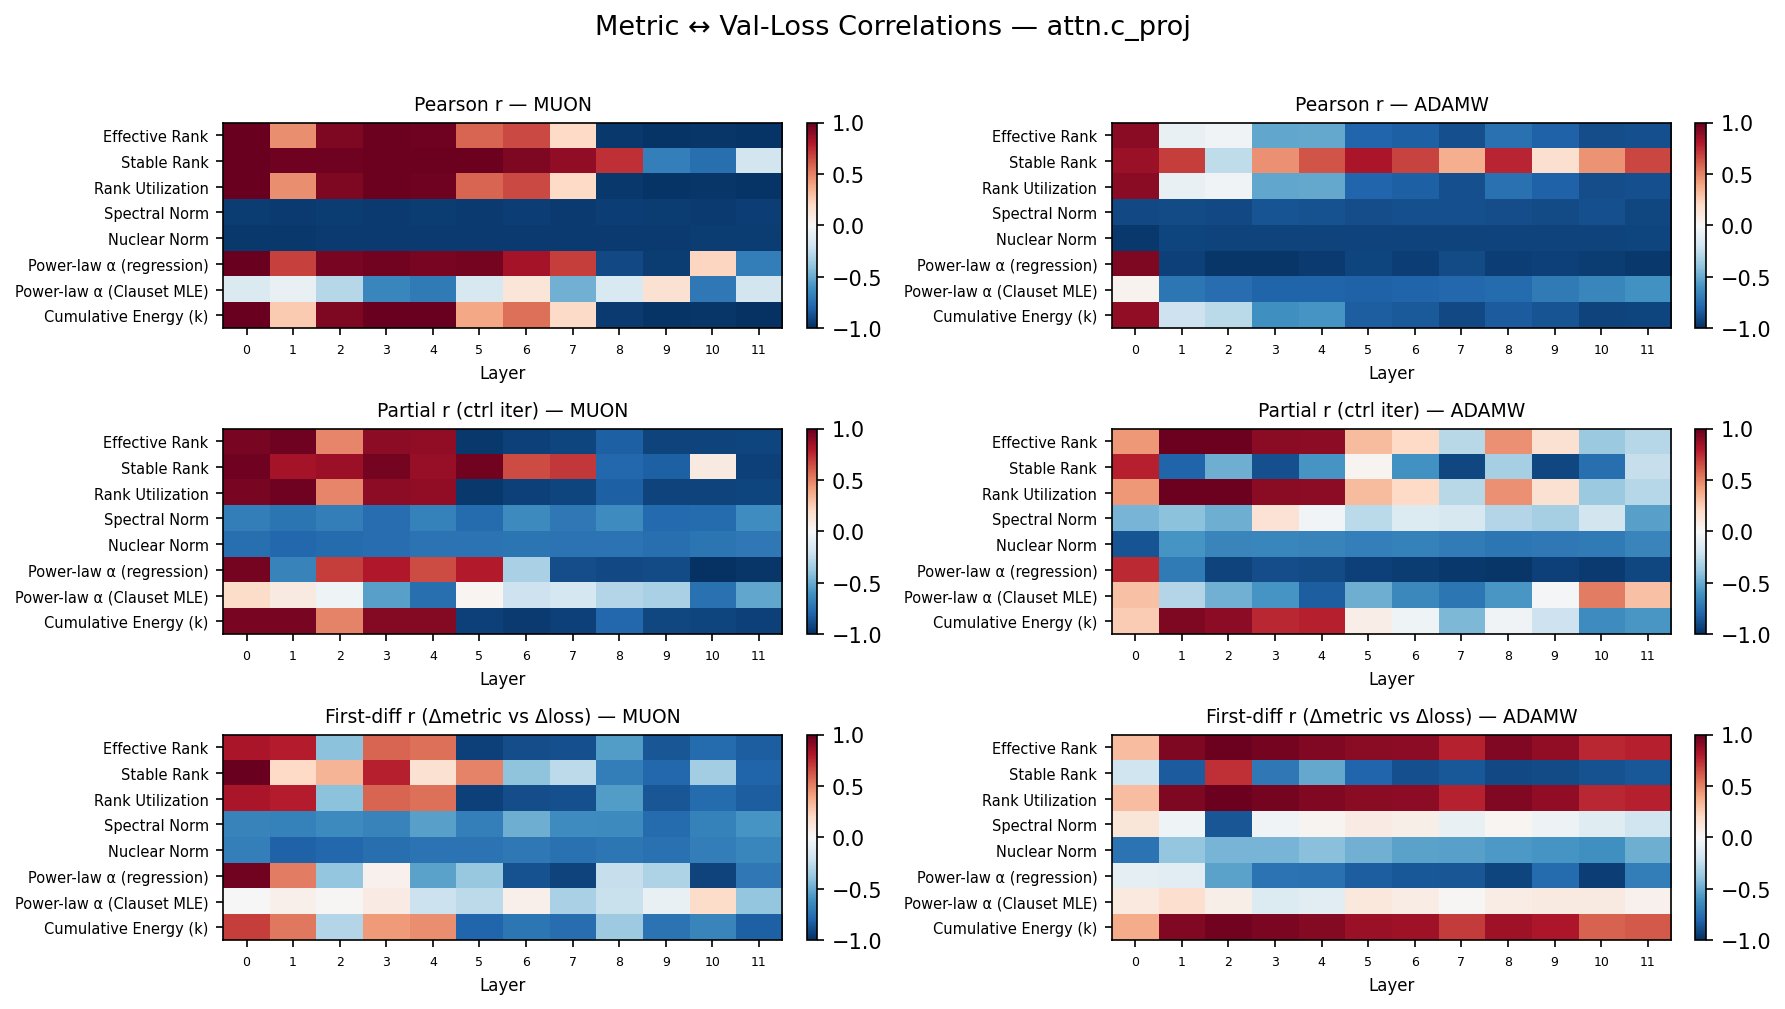
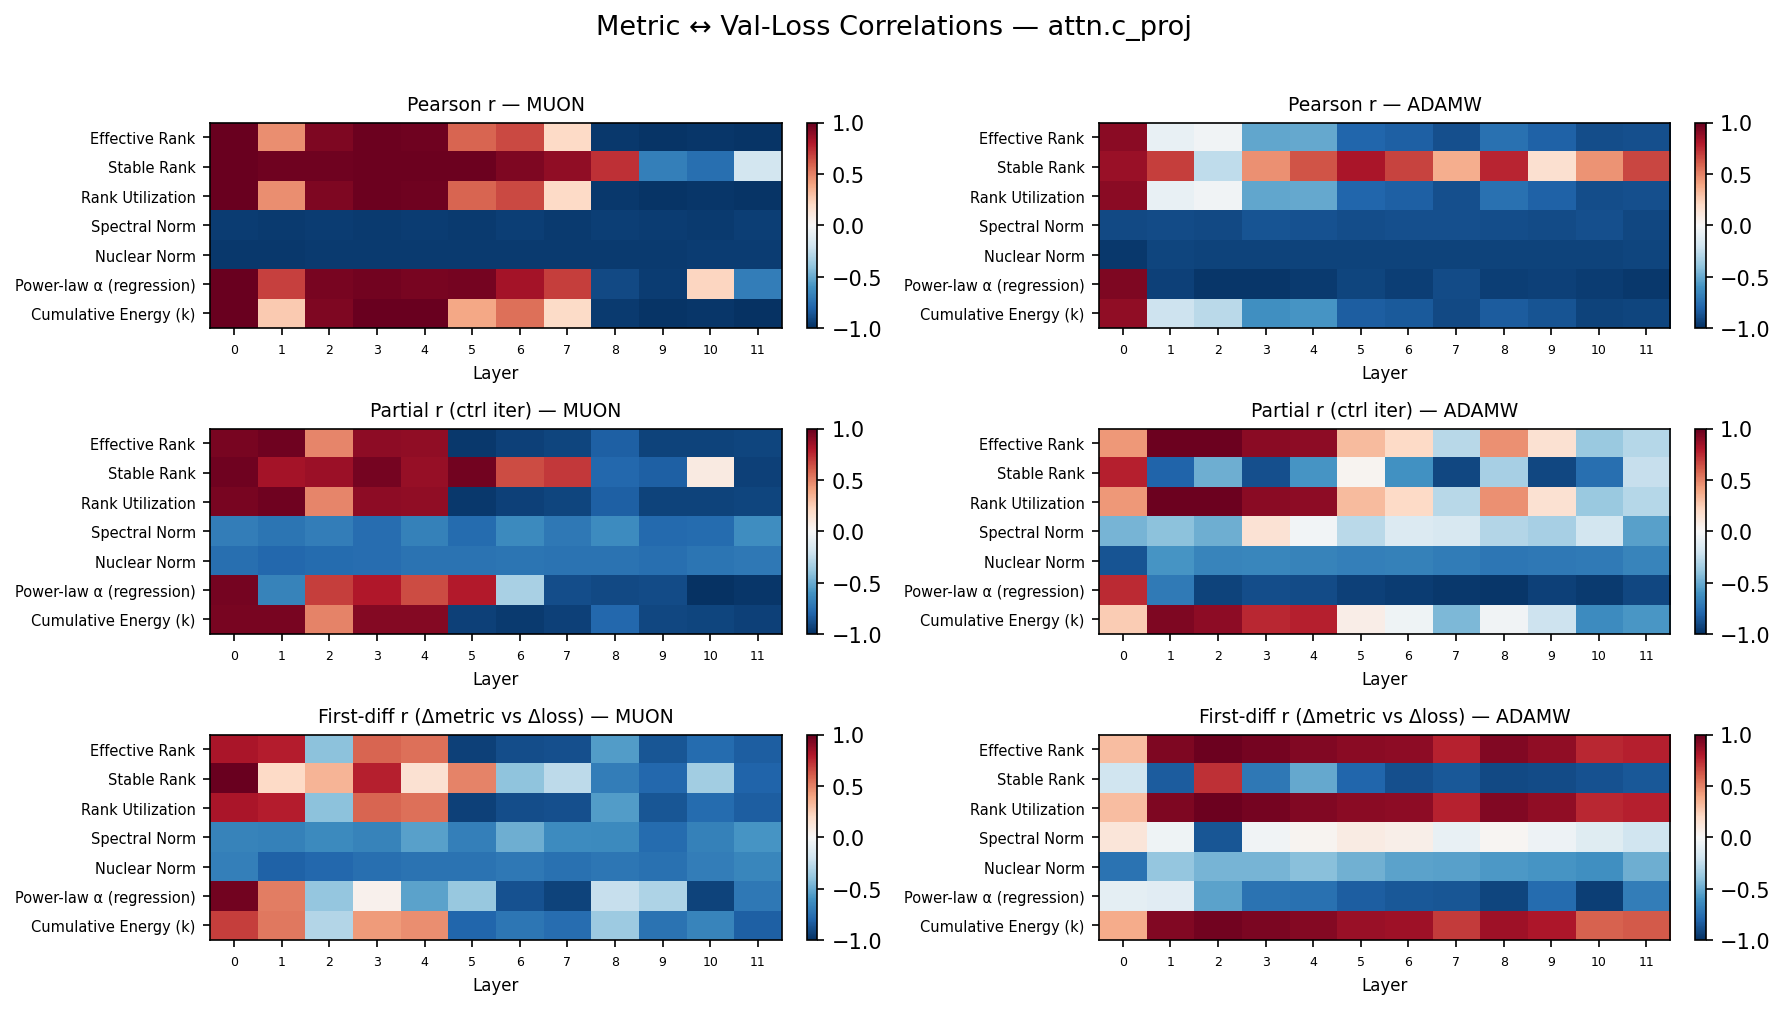
Removed alpha clauset in correlation graph

diff --git a/V5 - Train/analyse/correlation_without_prewarm.py b/V5 - Train/analyse/correlation_without_prewarm.py
@@ -56,7 +56,6 @@ ALL_METRICS = [
     'spectral_norm',
     'nuclear_norm',
     'alpha',
-    'alpha_clauset',
     'energy_k',
 ]
 
@@ -67,7 +66,6 @@ METRIC_LABELS = {
     'spectral_norm':      'Spectral Norm',
     'nuclear_norm':       'Nuclear Norm',
     'alpha':              'Power-law α (regression)',
-    'alpha_clauset':      'Power-law α (Clauset MLE)',
     'energy_k':           'Cumulative Energy (k)',
 }
 
